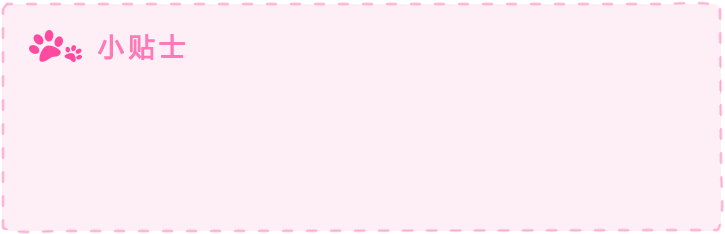
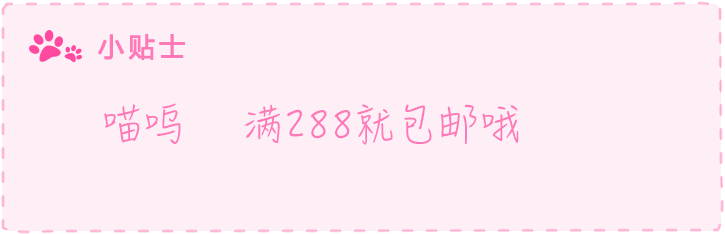
图片

Changed region(s): [[0.3338, 0.4487, 0.7283, 0.6282], [0.1214, 0.4487, 0.2731, 0.6282]]

diff --git a/views/mobile/simple/credit.html b/views/mobile/simple/credit.html
@@ -14,7 +14,7 @@
 <body>
 <div id="credit_app">
     <div class="container card_info">
-        <template v-if="message.sfz_image1x==''">
+        <template v-if="message.sfz_name==null">
             <section class="nodata">
                 <div class="emptyCart">
                     <img src="/views/mobile/skin/default/image/jmj/icon/cat_car.png" alt="" style="width:1.94rem;height:1.33rem;"/>
@@ -67,7 +67,7 @@
                 <span>身份证正反面照片</span><span>上传身份证正反面照片让通关更便捷</span>
             </div>
             <div class="editImg">
-                <template v-if="message.sfz_image1x==''">
+                <template v-if="message.sfz_name==null">
                     <div class="left">
                         <div class="img" onclick="uploadImg(this)">
                             <img src="/views/mobile/skin/default/image/jmj/product/add.png" alt="" class="pic pic_no" />

diff --git a/views/mobile/skin/default/css/app/products.css b/views/mobile/skin/default/css/app/products.css
@@ -133,26 +133,19 @@ ul li{
     color:#bbb;
 }
 .tips{
-    position:relative;
-    height:2.5rem;
+    height:4.5rem;
     width:100%;
     overflow-x: hidden;
     display: -webkit-flex;
     /*align-items: center;*/
     justify-content: center;
-    margin-bottom:2rem;
+    padding-bottom:2rem;
+    background:#fff;
 }
 .tips img{
     width:7.25rem;
     height:2.34rem;
 }
-.tips .text{
-    position: absolute;
-    color:#ff44a0;
-    font-size:0.3rem;
-    top:1rem;
-}
-
 #goodsContent{
     font-size:0.28rem;
     color:#3d4245;

diff --git a/views/mobile/skin/default/css/app/jiumao.css b/views/mobile/skin/default/css/app/jiumao.css
@@ -402,18 +402,20 @@ input[type='search']{
 	letter-spacing:0.0107rem;
 	line-height:0.38rem;
 	text-align:justify !important;
+	width:100%;
 }
 .article_body p img{
-	margin:0.5rem 0;
-	width:100%;
+	display: block;
+	margin:0.5rem auto;
+	max-width:100%;
 }
 .article_body>img{
 	margin:0.5rem 0;
 	width:100%;
 }
 .article_body>div>img{
-	margin:0.5rem 0;
-	width:100%;
+	margin:0.5rem auto;
+	max-width:100%;
 }
 .article_body .content_ware{
 	display:flex;

diff --git a/views/mobile/site/products.html b/views/mobile/site/products.html
@@ -112,7 +112,6 @@
     	</div>
 		<div class="tips">
 			<img src="/views/mobile/skin/default/image/jmj/product/tip.png" alt="" />
-			<div class="text">喵呜 满288就包邮哦</div>
 		</div>
     </section>
 	<!--加入购物车-->
